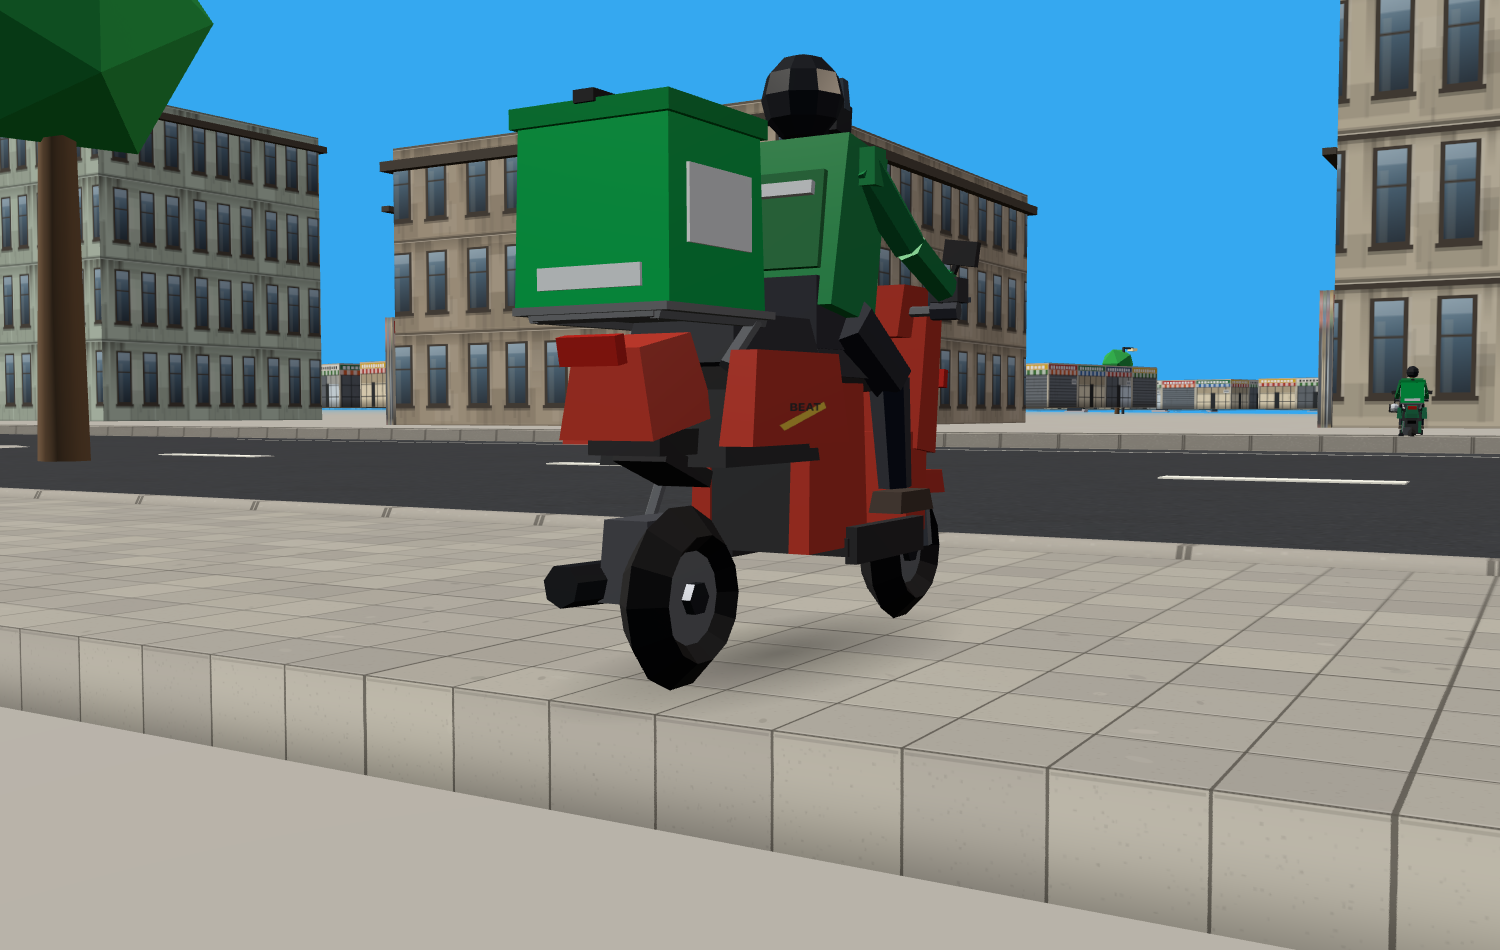
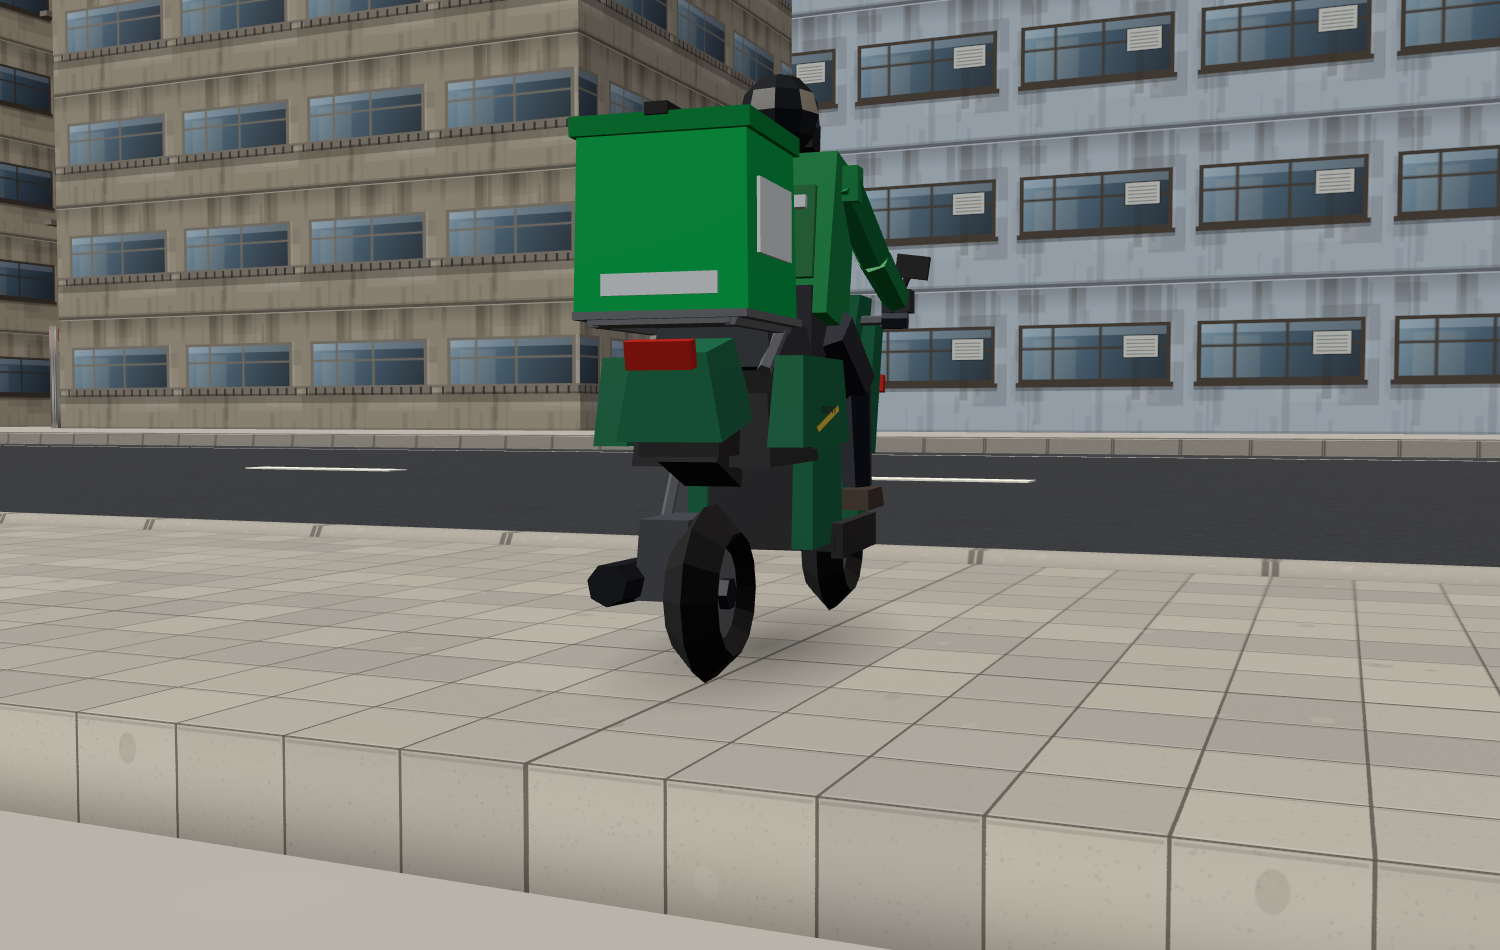
fix(ojek): park the rank on the paving, not across the kerb
The rank is parked nose-in, and snapToVerge hands out a slot 0.3 m short of the
BACK edge of the 3.6 m trotoar, so the 1.86 m machine always hung one tyre over
that edge: the contact probe read +0.08..+0.28 m per wheel against whatever was
behind the paving, usually a crossing carriageway 0.2 m lower.

Option (b) from the card: the slot is pulled 1.1 m toward the kerb (wheelbase/2
+ margin). That leaves 0.66 m of paving behind the rear tyre and 1.4 m in front
of the front tyre, so both tyres stand on the slab. Chosen over (a) parallel
parking, which would make the rank a 19 m row of 0.68 m silhouettes with 0.3 m of
slab behind them, and over (c) the carriageway, which puts six bikes in the
kerbside lane.

The inset is applied inside snapToVerge (new optional arg) so the kerbside
collider test runs where the bike actually ends up. A new accept predicate lets
the rank reject a slot whose axles would straddle an edge: it samples the drawn
street under the front tyre, the rear tyre and the midpoint, so a slope passes
(the bike is pitched to it) while a kerb, a crossing mouth or a slab seam does
not. If no paving slot along that kerb works, the rank falls back to the
kerbside lane instead of dropping the bike.

Seating is measured against the drawn slab, not pavementBand: the band is where
paving is PLANNED, and at a crossing mouth it reads 0.26 m while the swept slab
is up to 0.21 m lower, which is how a bike floated with a green contact row. The
[…]

diff --git a/src/world/city.ts b/src/world/city.ts
@@ -58,6 +58,23 @@ const WALK_ROADS = [
   { path: RING_ROAD as [number, number][], width: 20 },
 ];
 
+/**
+ * Where an ojek rank stands, and how it is seated.
+ *
+ * The bike is 1.27 m between its axles (front 0.74 m ahead of the group origin, rear 0.53 m
+ * behind) and parks nose-in at the kerb, so the whole machine needs 1.27 m of depth plus its
+ * overhang. The generic kerbside slot `snapToVerge` hands out sits at half-width + 3.5 m, which is
+ * 0.3 m short of the BACK edge of the 3.6 m trotoar: a nose-in bike therefore hung one tyre over
+ * that edge, onto whatever was behind the paving - usually a crossing carriageway 0.2 m lower.
+ * Pulling the slot 1.1 m toward the kerb leaves 0.66 m of paving behind the rear tyre and 1.4 m in
+ * front of the front tyre, so both tyres stand on the slab for any yaw the random layout picks.
+ */
+const OJEK_FRONT = 0.74;
+const OJEK_REAR = -0.53;
+const OJEK_KERB_INSET = 1.1;
+/** Fallback slot for paving that is not one plane: the kerbside lane, 2 m off the centre line. */
+const OJEK_ROAD_INSET = 5.5;
+
 
 // Every interior kind is built once; shop doors cycle through this pool, so all
 // seven rooms are reachable no matter how the city is randomised.
@@ -1334,7 +1351,24 @@ export class City {
     return { x, z };
   }
 
-  snapToVerge(x: number, z: number): { x: number; z: number; yaw: number } | null {
+  /**
+   * The kerbside slot nearest (x, z): on the paving, 0.3 m short of the shopfront line.
+   *
+   * `inset` moves the slot that many metres toward the kerb before it is tested. Everything that
+   * just needs "on the pavement" leaves it at 0; a prop too deep for the 0.6 m of paving behind
+   * that slot passes its own depth, so the collider test runs where the prop ends up rather than
+   * at a slot it will not occupy.
+   *
+   * `accept` rejects a candidate slot the caller cannot use - the ojek rank needs both tyres on one
+   * surface, and the paving is not one surface at a crossing mouth. The walk along the kerb is a
+   * fixed order, so the slot a caller gets is deterministic for a given layout.
+   */
+  snapToVerge(
+    x: number,
+    z: number,
+    inset = 0,
+    accept?: (p: { x: number; z: number; yaw: number }) => boolean
+  ): { x: number; z: number; yaw: number } | null {
     let best: { d: number; cx: number; cz: number; nx: number; nz: number; yaw: number; half: number } | null = null;
     for (const a of [...ARTERIALS, { path: RING_ROAD, width: 20 } as any]) {
       const pts = a.path as [number, number][];
@@ -1355,7 +1389,9 @@ export class City {
       }
     }
     if (!best) return null;
-    const off = best.half + 1.9 + 1.6;          // middle of the 3.6 m pavement
+    // The kerb cap ends at half+0.2 and the paving runs 3.6 m behind it, so this is 0.3 m short of
+    // the shopfront line, not the middle of the slab: a prop deeper than 0.6 m has to inset itself.
+    const off = best.half + 1.9 + 1.6 - inset;
     const free = (px: number, pz: number) =>
       this.colliders.every((c) => px < c.minX - 1.2 || px > c.maxX + 1.2 || pz < c.minZ - 1.2 || pz > c.maxZ + 1.2);
     // walk along the kerb as well as across it: one POI can land where a shopfront juts out, and
@@ -1366,7 +1402,9 @@ export class City {
       for (const side of [1, -1]) {
         const px = best.cx + dirX * along + best.nx * off * side;
         const pz = best.cz + dirZ * along + best.nz * off * side;
-        if (free(px, pz) && !isWater(px, pz)) return { x: px, z: pz, yaw: best.yaw };
+        if (!free(px, pz) || isWater(px, pz)) continue;
+        if (accept && !accept({ x: px, z: pz, yaw: best.yaw })) continue;
+        return { x: px, z: pz, yaw: best.yaw };
       }
     }
     return null;
@@ -1766,56 +1804,78 @@ export class City {
 
   buildOjekBases() {
     if (!this.ojeks) this.ojeks = [];
+    // the built-street rays below read matrixWorld, and nothing has been rendered yet
+    this.group.updateMatrixWorld(true);
     let placed = 0;
     for (const poi of POIS) {
       if (poi.kind !== 'kaki5' && poi.kind !== 'terminal') continue;
       if (placed >= 3) break;
       placed++;
       for (let i = 0; i < 2; i++) {
-        const spot = this.snapToVerge(poi.x + i * 3.2 - 1.6, poi.z + 6);
+        const yawOf = (spotYaw: number) => spotYaw + Math.PI / 2 + i * 0.1;
+        // A bike stands on ONE plane or it stands on neither: both tyres have to read the same
+        // drawn surface, which is what the slot predicate below tests.
+        const onOneSurface = (p: { x: number; z: number; yaw: number }) =>
+          this.ojekContact(p.x, p.z, yawOf(p.yaw)) !== null;
+        // The rank is pulled 1.1 m toward the kerb: the generic kerbside slot sits 0.3 m from the
+        // BACK edge of the 3.6 m trotoar, so the 1.86 m nose-in machine always had one tyre over
+        // the edge, 0.2 m above the crossing road. The inset is applied inside snapToVerge so the
+        // kerbside-collider test runs on the spot the bike actually takes.
+        const spot =
+          this.snapToVerge(poi.x + i * 3.2 - 1.6, poi.z + 6, OJEK_KERB_INSET, onOneSurface) ??
+          // no patch of paving here is one plane under the whole machine (a crossing mouth, a
+          // driveway cut, a kerb return): draw the rank up on the carriageway instead, where the
+          // asphalt is continuous, rather than drop a bike or straddle the kerb
+          this.snapToVerge(poi.x + i * 3.2 - 1.6, poi.z + 6, OJEK_ROAD_INSET, onOneSurface);
         if (!spot) continue;
+        const yaw = yawOf(spot.yaw);
+        const contact = this.ojekContact(spot.x, spot.z, yaw);
+        if (!contact) continue;
         const bike = new Ojek({ color: i === 0 ? 0xc0392b : 0x1f6f4a });
         // The bike has to stand at its slot. placeOnGround only sets the height, so a group left
         // at x=0/z=0 parked every ojek in the middle of the map: six slots audited as "on the
         // ground" while the meshes were somewhere nobody could ever see them.
-        const yaw = spot.yaw + Math.PI / 2 + i * 0.1;
-        // the slot is where the rank starts; the stance is where both tyres can actually stand
-        const stance = this.ojekStance(spot.x, spot.z, yaw);
-        if (!stance) continue;
         bike.group.name = `ojek-${this.ojeks.length}`;
         this.group.add(bike.group);
-        this.standOjek(bike, stance, yaw);
-        this.ojeks.push({ group: bike.group, x: stance.x, z: stance.z, yaw, box: bike.cargoBoxBounds });
-        // the slot sample, not the lower tyre: the audit asks where the prop was placed, and the
-        // pitch below is a tyre-contact correction on top of that
-        this.propAudit.push({ name: 'ojek', x: stance.x, z: stance.z, bottom: this.groundHeightAt(stance.x, stance.z) });
-        this.colliders.push({ minX: stance.x - 0.55, maxX: stance.x + 0.55, minZ: stance.z - 1.1, maxZ: stance.z + 1.1, h: 1.6 });
+        this.standOjek(bike, spot, contact, yaw);
+        this.ojeks.push({ group: bike.group, x: spot.x, z: spot.z, yaw, box: bike.cargoBoxBounds });
+        // the audit row is the SLOT sample, not the tyre contact: it compares every prop against
+        // the analytic ground (a 0.06 m band), while the tyres are seated on the drawn slab, and
+        // on a grade the swept slab and `groundHeightAt` legitimately differ by more than that.
+        // Tyre contact is proved by tools/shoot-ojek-fix.mjs, not by this row.
+        this.propAudit.push({ name: 'ojek', x: spot.x, z: spot.z, bottom: this.groundHeightAt(spot.x, spot.z) });
+        this.colliders.push({ minX: spot.x - 0.55, maxX: spot.x + 0.55, minZ: spot.z - 1.1, maxZ: spot.z + 1.1, h: 1.6 });
       }
     }
   }
 
   /**
-   * Stand a bike on the two surfaces its axles stand on, not on one sample at its slot.
+   * Seat a bike on the plane both its tyres stand on.
    *
-   * `placeOnGround` seats a prop from a single height at its audit slot. An ojek is 1.27 m between
-   * axles and parks nose-in across a kerb, so one tyre stood on the pavement and the other hung
-   * 0.20 m over the gutter - the "ojek floats" the owner photographed. The contact is solved
-   * against the measured tread, not against a formula: each wheel's own bounding box is read back,
-   * the gap to the surface under its axle is measured, and position plus pitch are corrected until
-   * both treads are on the ground. The pitch is about the bike's lateral axis because the Euler
-   * order is YXZ (yaw first, then lean in the machine's own frame).
+   * `placeOnGround` seats a prop from a single sample at its audit slot and assumes the group
+   * origin is the contact plane; an ojek's origin is `contactY` above its tread, and the trotoar
+   * follows the terrain grade, so the two axles sit at slightly different heights. The contact is
+   * solved against the measured tread rather than a formula: each wheel's own bounding box is read
+   * back, the gap to the surface under its axle is measured, and position plus pitch are corrected
+   * until both treads are down. The pitch is about the bike's lateral axis because the Euler order
+   * is YXZ (yaw first, then lean in the machine's own frame).
    */
-  private standOjek(bike: Ojek, stance: { x: number; z: number; gF: number; gR: number }, yaw: number) {
+  private standOjek(
+    bike: Ojek,
+    spot: { x: number; z: number },
+    contact: { gF: number; gR: number },
+    yaw: number
+  ) {
     bike.group.rotation.order = 'YXZ';
     bike.group.rotation.y = yaw;
     bike.group.rotation.x = 0;
-    bike.group.position.set(stance.x, (stance.gF + stance.gR) / 2 - bike.contactY, stance.z);
+    bike.group.position.set(spot.x, (contact.gF + contact.gR) / 2 - bike.contactY, spot.z);
     const [frontPivot, rearPivot] = bike.wheels;
     const span = frontPivot.pivot.position.z - rearPivot.pivot.position.z || 1;
     for (let pass = 0; pass < 4; pass++) {
       bike.group.updateMatrixWorld(true);
       const tread = bike.wheels.map((w) => new THREE.Box3().setFromObject(w.pivot).min.y);
-      const err = [stance.gF - tread[0], stance.gR - tread[1]];
+      const err = [contact.gF - tread[0], contact.gR - tread[1]];
       bike.group.position.y += (err[0] + err[1]) / 2;
       bike.group.rotation.x += -(err[0] - err[1]) / span;
     }
@@ -1823,54 +1883,42 @@ export class City {
   }
 
   /**
-   * Where an ojek can actually stand, and on what.
+   * The plane the bike would stand on at this stance, or null when its tyres would straddle an edge.
    *
-   * The rank is parked nose-in at the kerb, so the slot sample can leave one tyre on the pavement
-   * and the other over the gutter (a 26 cm step the analytic ground does report). Walk the machine
-   * along its own axis and across the verge until both axles read the same height, and return that
-   * stance; null when the verge has no such spot, so the caller skips the bike instead of parking
-   * it across a kerb.
-   *
-   * The height that comes back is the BUILT surface, not the analytic one: `city.pavementBand`
-   * knows where paving is planned, but the street kit cuts gaps for bus bays and driveways, and a
-   * bike seated on a planned-but-absent slab floats a full kerb above the asphalt. The ray is cast
-   * before the bike joins the group, so it can only hit the street.
+   * Each tyre is measured separately against the drawn street (`builtGround`), because a rigid prop
+   * gets one pitch and the kerb is only 0.26 m high. A bike on a slope is pitched to the grade, so
+   * a height difference alone is not a defect; a STEP is. The midpoint tells the two apart: on a
+   * slope the ground under the middle of the machine sits between the axles' heights, while across
+   * an edge it sits on one of them.
    */
-  private ojekStance(x: number, z: number, yaw: number): { x: number; z: number; gF: number; gR: number } | null {
-    const f = { x: Math.sin(yaw), z: Math.cos(yaw) };
-    const across = { x: f.z, z: -f.x };
-    const front = 0.74; // local axle offsets, front first (vehicles/ojek.ts)
-    const rear = -0.53;
-    this.group.updateMatrixWorld(true);
-    for (const along of [0, 0.5, -0.5, 1.0, -1.0, 1.6, -1.6]) {
-      for (const side of [0, 0.4, -0.4, 0.8, -0.8]) {
-        const cx = x + f.x * along + across.x * side;
-        const cz = z + f.z * along + across.z * side;
-        const fx = cx + f.x * front, fz = cz + f.z * front;
-        const rx = cx + f.x * rear, rz = cz + f.z * rear;
-        if (Math.abs(this.groundHeightAt(fx, fz) - this.groundHeightAt(rx, rz)) > 0.04) continue;
-        const gF = this.builtGround(fx, fz);
-        const gR = this.builtGround(rx, rz);
-        if (gF === null || gR === null) continue;
-        if (Math.abs(gF - gR) > 0.04) continue;
-        return { x: cx, z: cz, gF, gR };
-      }
-    }
-    return null;
+  private ojekContact(x: number, z: number, yaw: number): { gF: number; gR: number } | null {
+    const s = Math.sin(yaw);
+    const c = Math.cos(yaw);
+    const at = (k: number) => this.builtGround(x + s * k, z + c * k);
+    const gF = at(OJEK_FRONT);
+    const gR = at(OJEK_REAR);
+    const gM = at((OJEK_FRONT + OJEK_REAR) / 2);
+    if (gF === null || gR === null || gM === null) return null;
+    if (Math.abs(gM - (gF + gR) / 2) > 0.02) return null;
+    // no street here is steeper than ~25% over 1.27 m; more than that is an edge, not a grade
+    if (Math.abs(gF - gR) > 0.35) return null;
+    return { gF, gR };
   }
 
-  /** the built surface under (x,z) nearest the analytic ground, or null when nothing is there */
+  /**
+   * The topmost drawn surface under (x, z), or null when there is none.
+   *
+   * This is what a player sees a tyre rest on, and the same thing the contact harness measures.
+   * `pavementBand` is where paving is PLANNED: at a crossing mouth or a kerb return the analytic
+   * height and the swept slab disagree by up to the kerb height, and a bike seated on the analytic
+   * number floats 20 cm over the drawn street. The ray starts 0.6 m above the analytic ground so a
+   * shop awning, a signboard or a cart deck three metres up cannot be mistaken for the ground.
+   */
   private builtGround(x: number, z: number): number | null {
     const near = this.groundHeightAt(x, z);
-    const ray = new THREE.Raycaster(new THREE.Vector3(x, near + 1.6, z), new THREE.Vector3(0, -1, 0), 0, 3.2);
-    const hits = ray.intersectObject(this.group, true) as { point: THREE.Vector3 }[];
-    let best: number | null = null;
-    let bestD = 0.12;
-    for (const h of hits) {
-      const d = Math.abs(h.point.y - near);
-      if (d <= bestD) { bestD = d; best = h.point.y; }
-    }
-    return best;
+    const ray = new THREE.Raycaster(new THREE.Vector3(x, near + 0.6, z), new THREE.Vector3(0, -1, 0), 0, 1.2);
+    const hit = ray.intersectObject(this.group, true)[0];
+    return hit ? hit.point.y : null;
   }
 
   buildDistrictProps() {
